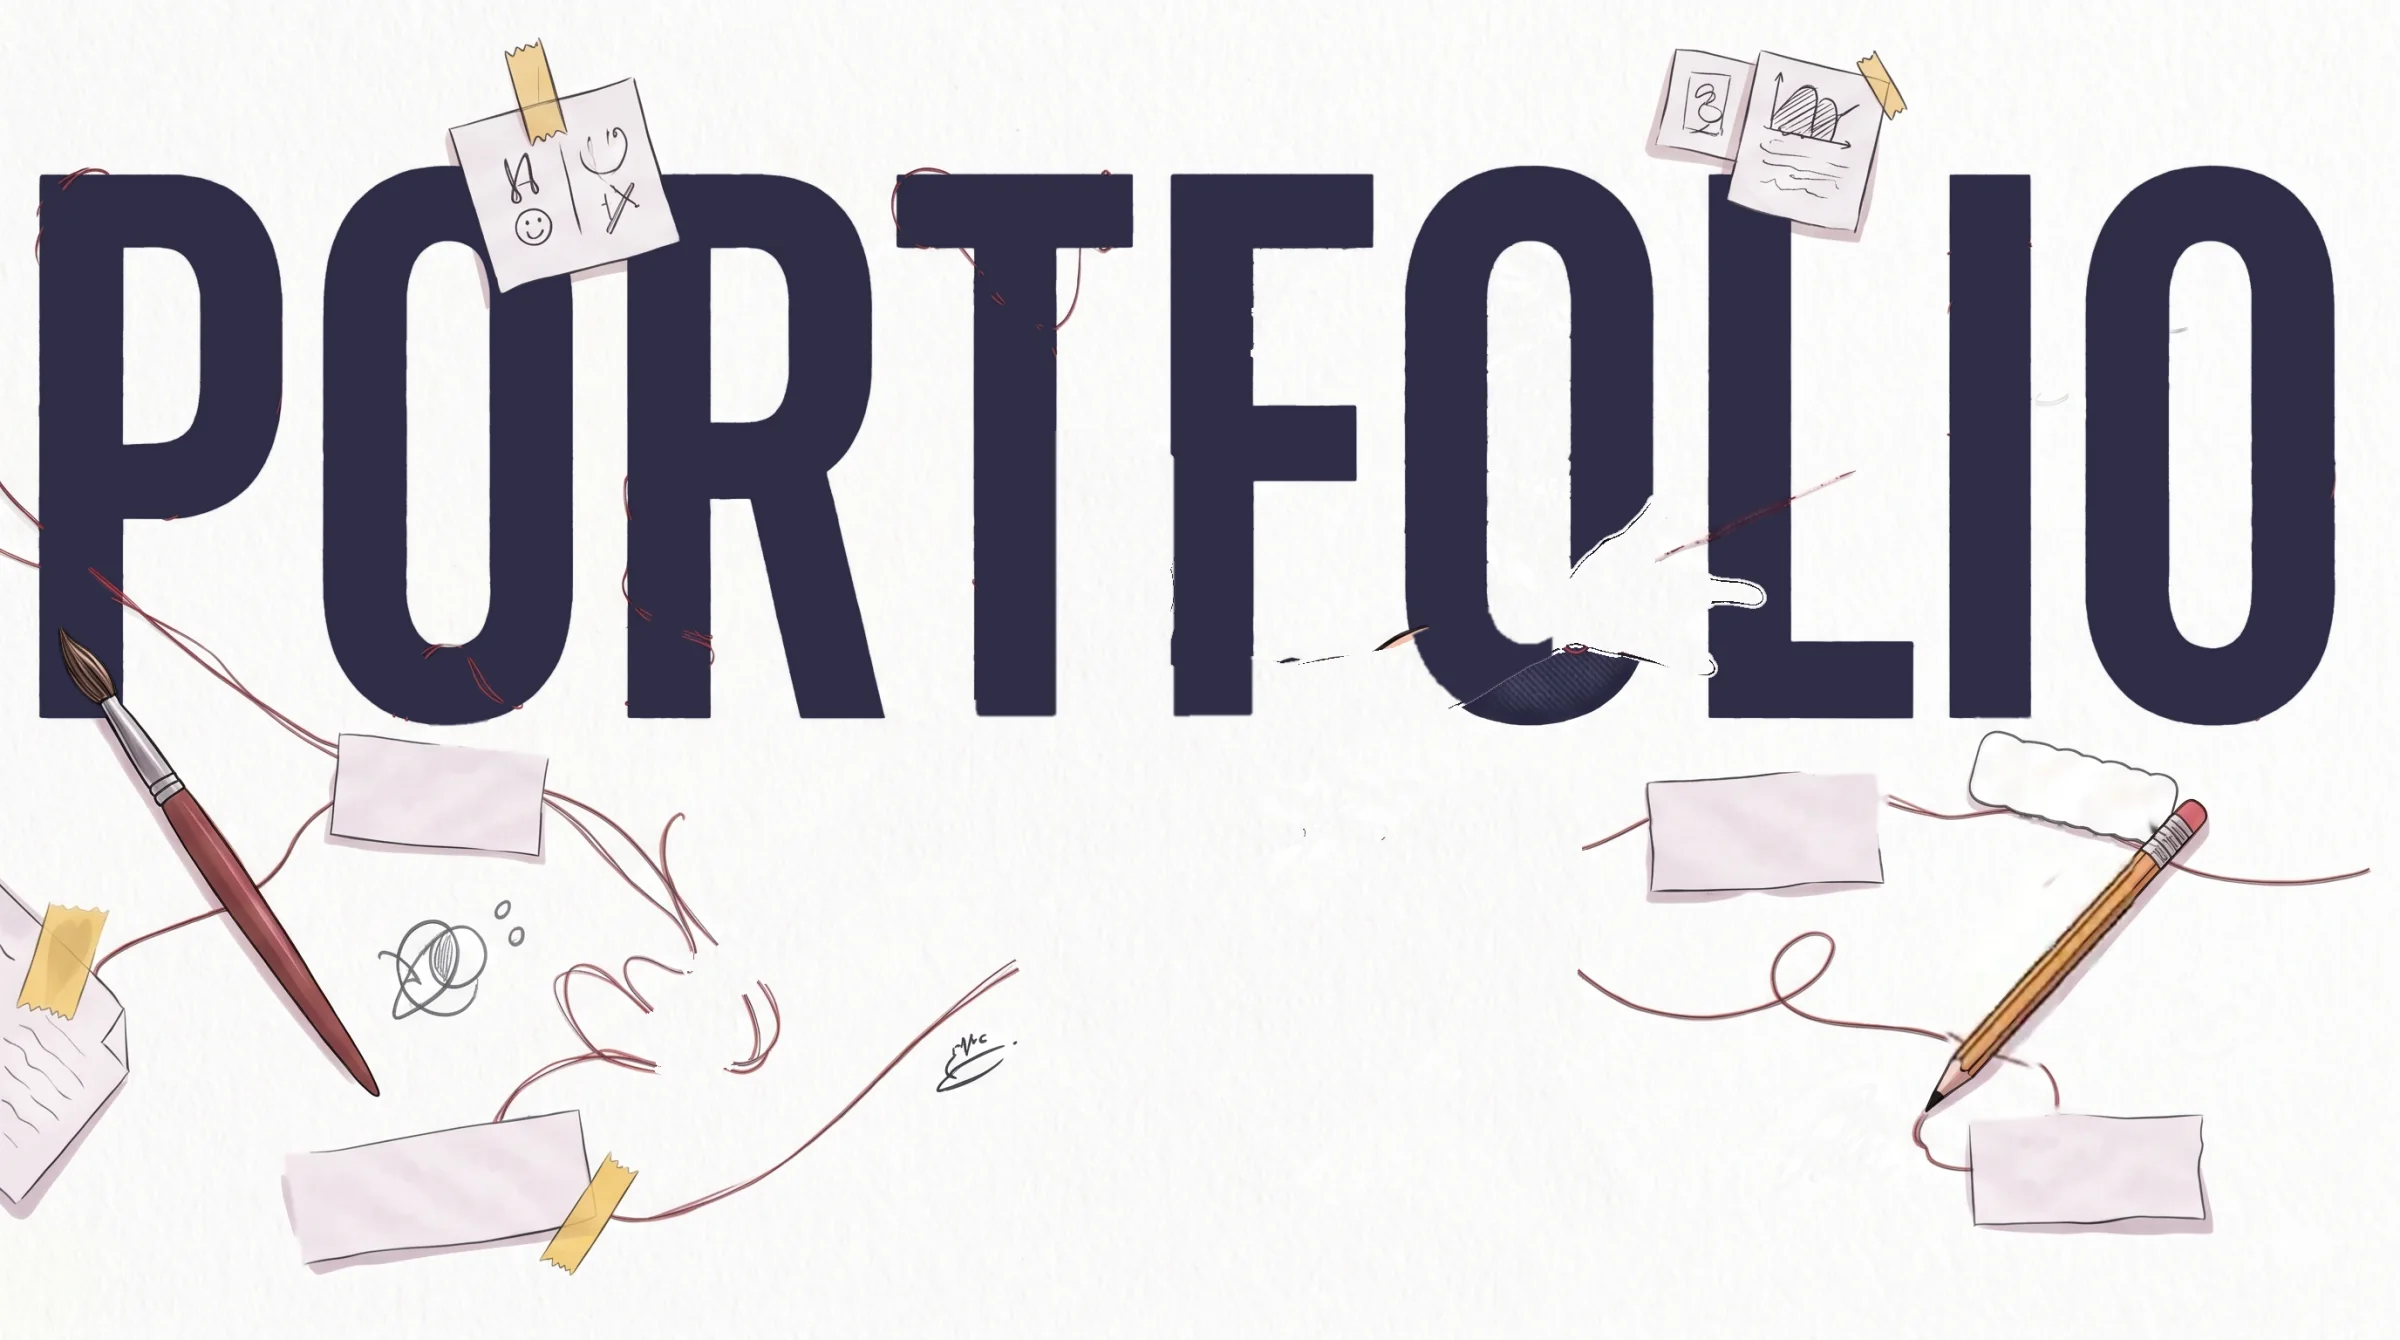
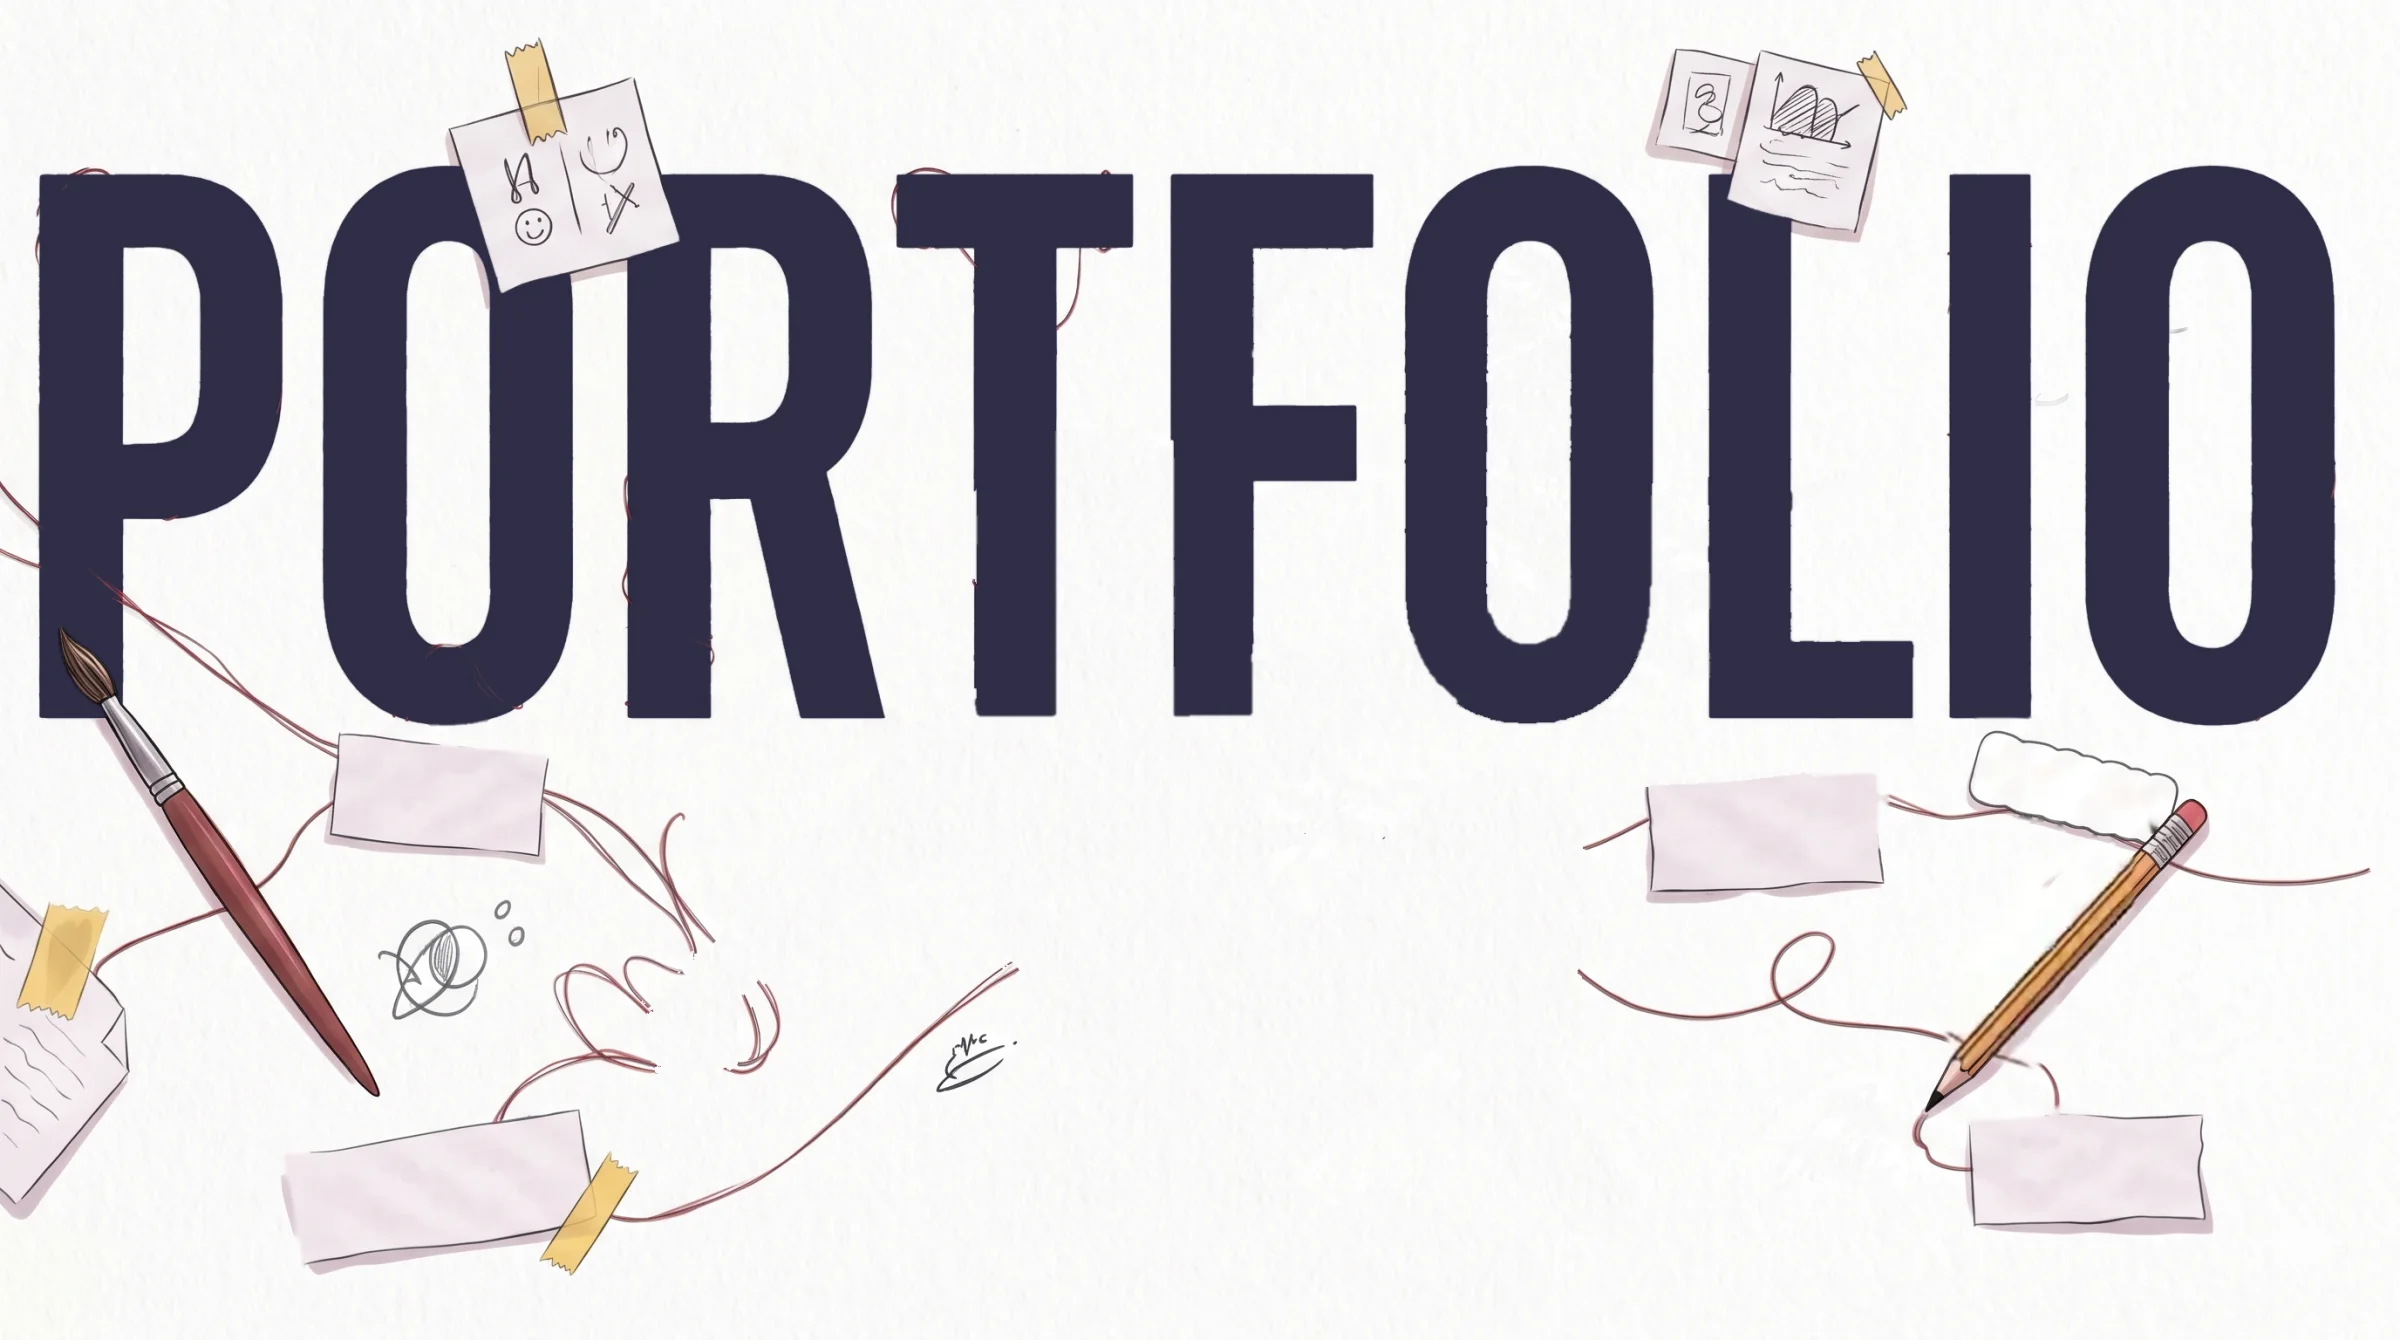
fix: fixed the web glitch

Changed region(s): [[0.625, 0.3672, 0.75, 0.5201], [0.5625, 0.459, 0.5938, 0.4896]]

diff --git a/Frontend/src/components/HeroSection.tsx b/Frontend/src/components/HeroSection.tsx
@@ -98,7 +98,6 @@ const LAYERS = [
   { src: 'sigAm', cls: 'pop pop1', l: 72.311, t: 79.427, w: 6.904, h: 10.417 },
   { src: 'sigFfe', cls: 'pop pop2', l: 53.779, t: 57.617, w: 5.814, h: 7.487 },
   { src: 'smile', cls: 'pop pop3', l: 89.753, t: 71.615, w: 3.997, h: 7.812 },
-  { src: 'strands', cls: 'strands', l: 68.677, t: 32.552, w: 9.448, h: 14.323 },
   { src: 'spider', cls: 'spider', l: 81.032, t: 62.5, w: 7.994, h: 17.578 },
   { src: 'fig_white', cls: 'white', l: 26.853, t: 32.031, w: 46.693, h: 67.122 },
   { src: 'hatch_hair', cls: 'hatch hh', l: 26.853, t: 32.031, w: 46.693, h: 67.122 },
@@ -115,14 +114,15 @@ const LAYERS = [
 
 /** Red thread bundle that shoots from the hand across the letters (SVG units = illustration px, 2752 x 1536). */
 const THREADS = [
-  'M1895 655 C 2050 560 2300 440 2790 190',
-  'M1895 655 C 2080 580 2330 470 2790 235',
-  'M1895 655 C 2060 600 2350 500 2790 285',
-  'M1895 655 C 2100 560 2250 420 2400 380 C 2480 350 2520 400 2480 420 C 2440 440 2560 330 2790 330',
-  'M1895 655 C 2090 610 2400 540 2790 380',
-  'M1895 655 C 2000 640 2200 560 2330 560',
-  'M2330 180 C 2370 150 2420 130 2470 135',
-  'M2300 215 C 2340 190 2380 160 2420 150',
+  'M1798 712 C1835 694 1865 670 1894 650 C1950 615 2060 560 2140 520 S 2400 400 2780 330',
+  'M1798 712 C1835 694 1865 670 1894 650 C1955 620 2070 575 2150 545 S 2410 440 2780 355',
+  'M1798 712 C1835 694 1865 670 1894 650 C1960 625 2080 590 2160 565 S 2420 480 2780 380',
+  'M1798 712 C1835 694 1865 670 1894 650 C1965 630 2090 605 2170 585 S 2440 510 2780 405',
+  'M1798 712 C1835 694 1865 670 1894 650 C1980 626 2050 612 2110 600 C2220 575 2420 470 2500 400 C2540 365 2480 340 2455 365 C2430 390 2520 420 2780 300',
+  'M1798 712 C1835 694 1865 670 1894 650 C1950 625 2050 590 2140 565 S 2400 470 2780 440',
+  'M1798 712 C1835 694 1865 670 1894 650 C1970 635 2080 615 2180 600 S 2430 540 2780 420',
+  'M2200 296 C2230 275 2260 270 2300 276',
+  'M2190 312 C2230 290 2270 286 2310 292',
 ];
 
 /** Inline style helper that allows CSS custom properties. */

diff --git a/Frontend/src/components/HeroSection.css b/Frontend/src/components/HeroSection.css
@@ -154,7 +154,7 @@
 .hc__threads path {
   fill: none;
   stroke: #9e2a2b;
-  stroke-width: 3.2;
+  stroke-width: 2;
   stroke-linecap: round;
   stroke-dasharray: 1;
   stroke-dashoffset: 0;
